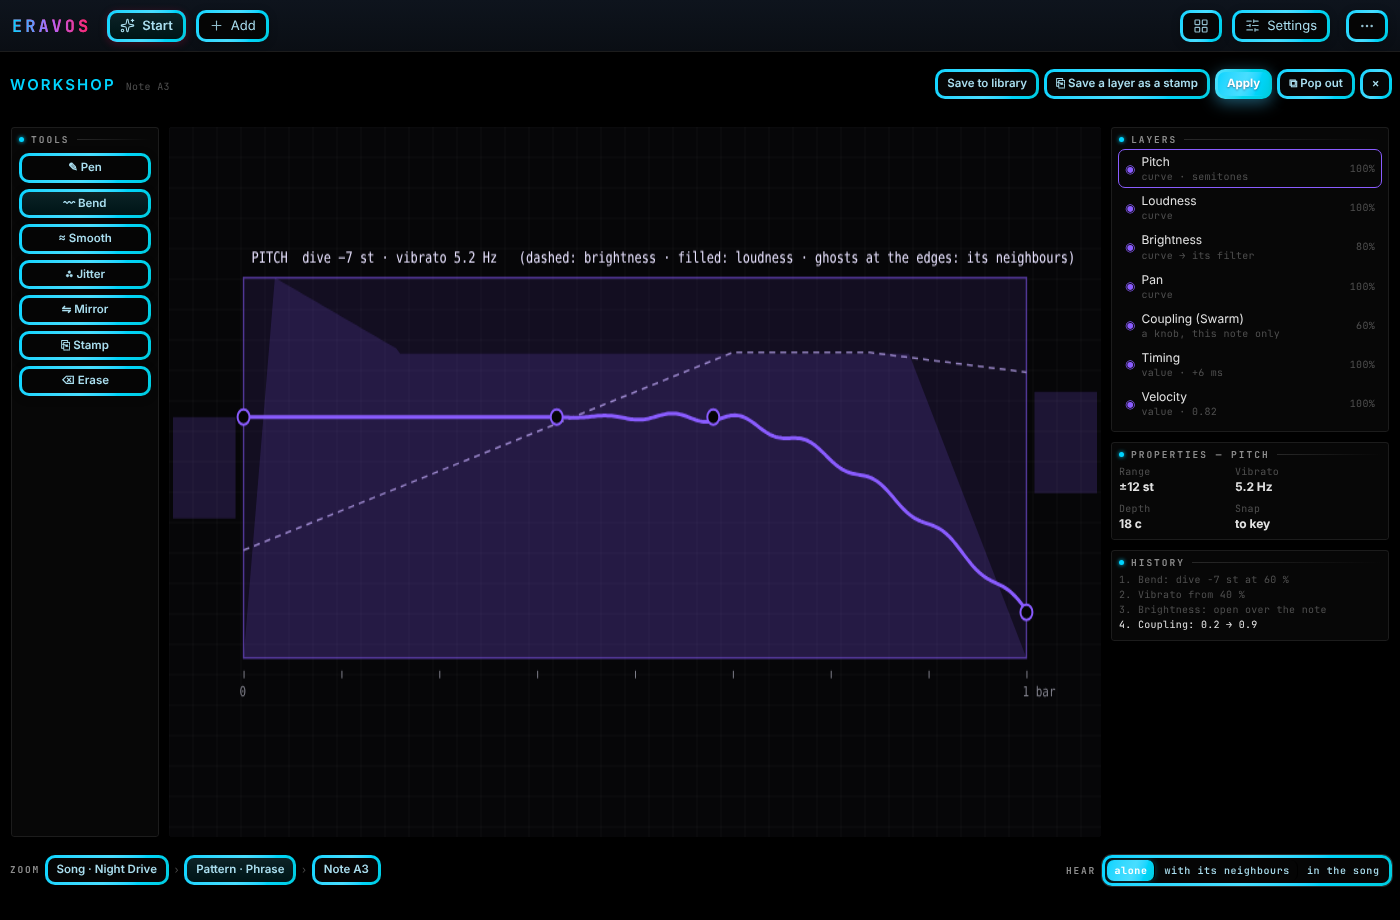
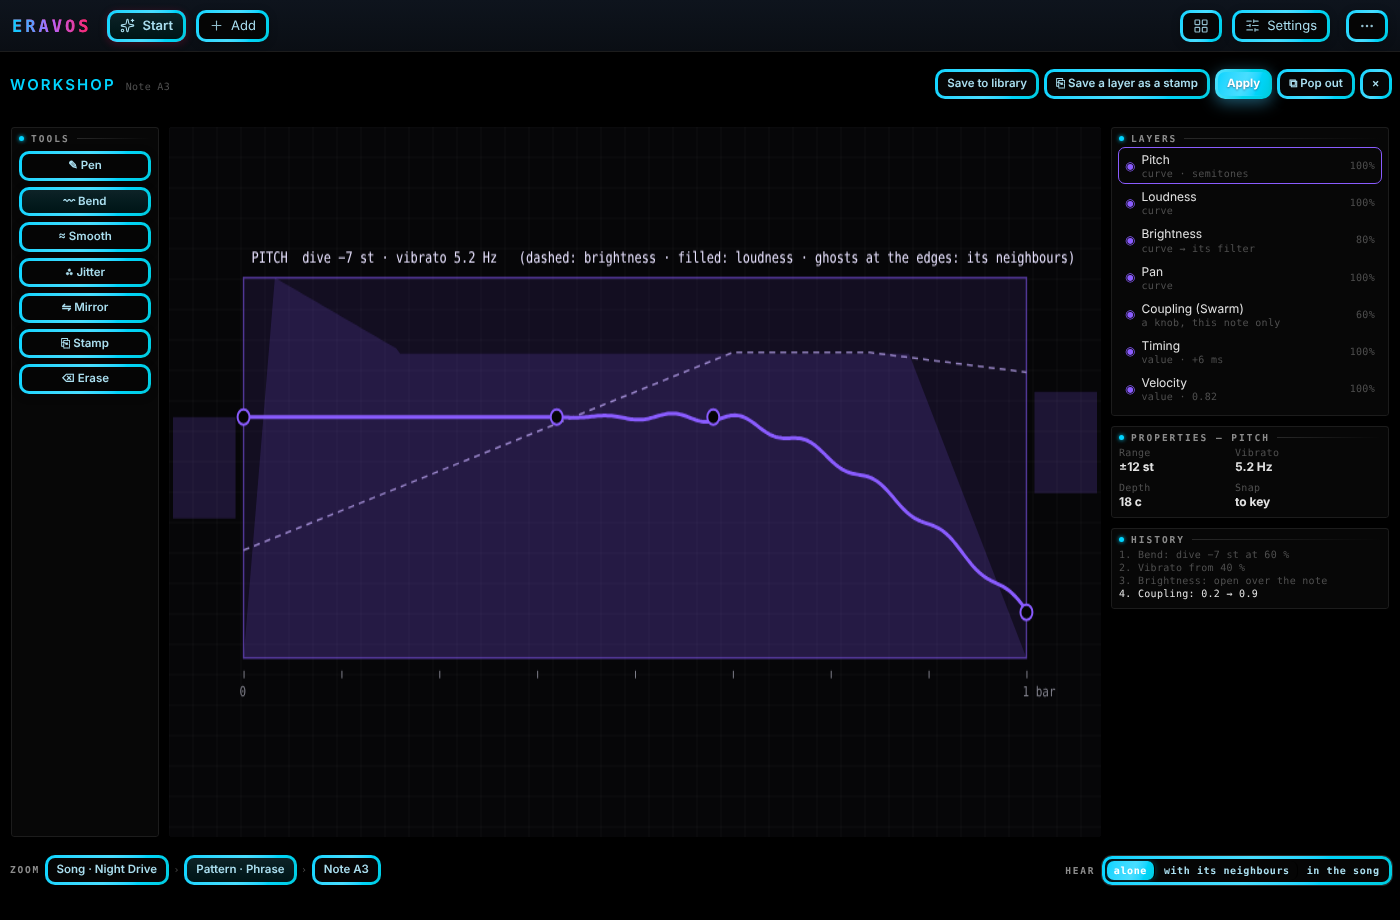
Workshop: the pattern kind preview (structure → shape → what emerges); spec addendum
Claude-Session: https://claude.ai/code/session_01CVLqKkJj5zvE99MkrEYFxM

diff --git a/docs/previews/workshop.preview.js b/docs/previews/workshop.preview.js
@@ -30,6 +30,47 @@
         g.fillStyle = '#e8e2ff'; g.font = '12px ui-monospace, monospace'; g.fillText('PITCH  dive −7 st · vibrato 5.2 Hz   (dashed: brightness · filled: loudness · ghosts at the edges: its neighbours)', x0 + 8, mid - 162);
       },
     },
+    // 2026-11-07 his words: "agnostic. the structure defines the shape which defines the emergent properties of the conditions." — a
+    // PATTERN: its structure layers (scale, chords, grid, range, density, contour) are the shape; the notes are what the conditions produce.
+    // The shaded cells are every note the shape admits (the possibility space); the bright ones emerged (seed 41); the ringed one is yours.
+    pattern: {
+      title: 'Pattern · Bassline (4 bars)', where: ['Song · Night Drive', 'Pattern · Bassline', 'Note'], accent: '#00d4ff', selected: 'Density',
+      tools: ['✎ Pen', '⇕ Range', '⋮ Grid', '◢ Density', '〰 Contour', '⚄ Seed', '🔒 Lock', '⌫ Erase'], tool: 3,
+      groups: [['STRUCTURE — THE SHAPE', [['Scale', 'constraint · A minor', 100], ['Chords', 'constraint · i–VI–III–VII', 100], ['Grid', 'constraint · 16ths · 5 of 8', 100], ['Range', 'constraint · A1 – A3', 100], ['Density', 'curve · over the 4 bars', 100], ['Contour', 'curve · up, then home', 70]]],
+        ['WHAT EMERGES', [['Notes', 'events · what the conditions produce', 100], ['Yours (locked)', 'events · kept when the shape changes', 100], ['Variation', 'value · seed 41', 100]]]],
+      props: [['Start', '30 %'], ['End', '90 %'], ['Shape', 'rise'], ['Over', '4 bars'], ['Live', 'while it plays'], ['Plays into', 'any wired tool']],
+      history: ['Scale: A minor', 'Chords: i–VI–III–VII', 'Range: A1 – A3', 'Lock: A2 on bar 1', 'Density: rise 30 → 90 %'],
+      preview: ['alone', 'with its tools', 'in the song'],
+      draw(g, W, H, acc) {
+        const L = 34, R = 34, T = 64, B = 96, x0 = L, x1 = W - R, y0 = T, y1 = H - B, steps = 64, lo = 33, hi = 57, rows = hi - lo + 1;
+        const cw = (x1 - x0) / steps, rh = (y1 - y0) / rows, X = (s) => x0 + s * cw, Y = (n) => y1 - (n - lo + 1) * rh;
+        const minor = [0, 2, 3, 5, 7, 8, 10], inKey = (n) => minor.includes(((n - 57) % 12 + 12) % 12);
+        const chords = [[57, 60, 64], [53, 57, 60], [48, 52, 55], [55, 59, 62]], tone = (n, bar) => chords[bar].some(c => (((n - c) % 12) + 12) % 12 === 0);
+        const eu = [1, 0, 1, 1, 0, 1, 1, 0], onGrid = (s) => eu[s % 8] === 1, dens = (s) => 0.3 + 0.6 * (s / steps), cont = (s) => 40 + 9 * Math.sin(Math.PI * s / steps);
+        let seed = 41; const rnd = () => { seed = (seed * 1103515245 + 12345) & 0x7fffffff; return seed / 0x7fffffff; };
+        // the shape: rows outside the key are closed; the chord's tones in each bar are where the line can land
+        for (let n = lo; n <= hi; n++) { const y = Y(n); if (!inKey(n)) { g.fillStyle = '#040406'; g.fillRect(x0, y, x1 - x0, rh); continue; }
+          for (let bar = 0; bar < 4; bar++) { g.fillStyle = tone(n, bar) ? 'rgba(0,212,255,0.07)' : 'rgba(255,255,255,0.025)'; g.fillRect(X(bar * 16), y, 16 * cw, rh - 1); } }
+        // the grid: steps the rhythm admits are lit columns
+        for (let s = 0; s < steps; s++) { if (onGrid(s)) { g.fillStyle = 'rgba(0,212,255,0.045)'; g.fillRect(X(s), y0, cw - 1, y1 - y0); } }
+        for (let bar = 0; bar <= 4; bar++) { g.fillStyle = 'rgba(255,255,255,0.14)'; g.fillRect(X(bar * 16), y0, 1, y1 - y0); }
+        // the possibility space: every note the shape admits (in key, a chord tone, on the grid)
+        for (let s = 0; s < steps; s++) { if (!onGrid(s)) continue; const bar = s >> 4; for (let n = lo; n <= hi; n++) if (inKey(n) && tone(n, bar)) { g.fillStyle = 'rgba(0,212,255,0.16)'; g.beginPath(); g.arc(X(s) + cw / 2, Y(n) + rh / 2, 1.6, 0, 7); g.fill(); } }
+        // range: the band the line may move in
+        g.strokeStyle = 'rgba(0,212,255,0.35)'; g.setLineDash([4, 4]); g.strokeRect(x0, Y(hi), x1 - x0, Y(lo) - Y(hi) + rh); g.setLineDash([]);
+        // contour: where the line leans (a soft guide)
+        g.strokeStyle = 'rgba(199,176,255,0.55)'; g.lineWidth = 1.5; g.beginPath(); for (let s = 0; s <= steps; s++) { const y = Y(cont(s)) + rh / 2; s ? g.lineTo(X(s), y) : g.moveTo(X(s), y); } g.stroke();
+        // what emerges: on each admitted step, by the density there, the chord tone nearest the contour (seed 41)
+        const notes = []; for (let s = 0; s < steps; s++) { if (!onGrid(s) || rnd() > dens(s)) continue; const bar = s >> 4, c = cont(s); let best = null, bd = 1e9;
+          for (let n = lo; n <= hi; n++) if (inKey(n) && tone(n, bar)) { const d = Math.abs(n - c) + rnd() * 3; if (d < bd) { bd = d; best = n; } } notes.push([s, best]); }
+        notes.forEach(([s, n], i) => { const lock = s === 0; g.fillStyle = acc; g.shadowColor = acc; g.shadowBlur = 10; g.fillRect(X(s) + 1, Y(n) + 1, cw * 1.6, rh - 2); g.shadowBlur = 0;
+          if (lock) { g.strokeStyle = '#ffffff'; g.lineWidth = 2; g.strokeRect(X(s) - 2, Y(n) - 2, cw * 1.6 + 6, rh + 4); } void i; });
+        // density: the selected layer, drawn under the roll with its two handles
+        const dy0 = y1 + 22, dh = 46; g.fillStyle = 'rgba(0,212,255,0.10)'; g.beginPath(); g.moveTo(x0, dy0 + dh); for (let s = 0; s <= steps; s++) g.lineTo(X(s), dy0 + dh - dens(s) * dh); g.lineTo(x1, dy0 + dh); g.closePath(); g.fill();
+        g.strokeStyle = acc; g.lineWidth = 2.5; g.beginPath(); for (let s = 0; s <= steps; s++) { const y = dy0 + dh - dens(s) * dh; s ? g.lineTo(X(s), y) : g.moveTo(X(s), y); } g.stroke();
+        [[0, dens(0)], [steps, dens(steps)]].forEach(([s, v]) => { g.fillStyle = '#050507'; g.beginPath(); g.arc(X(s), dy0 + dh - v * dh, 6, 0, 7); g.fill(); g.strokeStyle = acc; g.lineWidth = 2; g.stroke(); });
+      },
+    },
     photo: {
       title: 'Photo (your picture)', where: ['Board · Moodboard', 'Photo', 'Region'], accent: '#ffb347',
       tools: ['🖌 Brush', '⌫ Eraser', '☁ Smudge', '⎘ Clone', '⬚ Select', '⤡ Transform', '▣ Fill'],
@@ -56,20 +97,23 @@
     const head = h('div', { class: 'org-row', style: { gridColumn: '1 / 4', justifyContent: 'space-between', alignItems: 'center' } }, [
       h('div', { class: 'org-row', style: { gap: '10px', alignItems: 'baseline' } }, [h('b', { style: { font: '600 15px var(--font, sans-serif)', letterSpacing: '0.14em', color: 'var(--acc, #00d4ff)' }, text: 'WORKSHOP' }), h('span', { class: 'uk-hint', style: { margin: 0 }, text: K.title })]),
       h('div', { class: 'org-row', style: { gap: '8px' } }, [UI.Button({ label: 'Save to library' }).el, UI.Button({ label: '⎘ Save a layer as a stamp' }).el, UI.Button({ label: 'Apply', kind: 'primary' }).el, UI.Button({ label: '⧉ Pop out' }).el, UI.Button({ label: '×' }).el])]);
-    const tools = card('TOOLS', K.tools.map((t, i) => { const b = UI.Button({ label: t }).el; b.style.width = '100%'; b.style.margin = '3px 0'; if (i === (kindId === 'note' ? 1 : 0)) b.classList.add('on'); return b; }));
+    const tools = card('TOOLS', K.tools.map((t, i) => { const b = UI.Button({ label: t }).el; b.style.width = '100%'; b.style.margin = '3px 0'; if (i === (K.tool !== undefined ? K.tool : kindId === 'note' ? 1 : 0)) b.classList.add('on'); return b; }));
     const surf = UI.Canvas(900, 560); surf.style.width = '100%'; surf.style.height = '100%';
     UI.loop(surf, () => { const g = surf.g; surf.fit(); const W = surf.W, H = surf.H || 560; g.fillStyle = '#060608'; g.fillRect(0, 0, W, H);
       g.strokeStyle = 'rgba(255,255,255,0.04)'; g.lineWidth = 1; for (let x = 0; x < W; x += 24) { g.beginPath(); g.moveTo(x, 0); g.lineTo(x, H); g.stroke(); } for (let y = 0; y < H; y += 24) { g.beginPath(); g.moveTo(0, y); g.lineTo(W, y); g.stroke(); }
       K.draw(g, W, H, K.accent); }, 6);
     const centre = h('div', { class: 'uk-group', style: { margin: 0, padding: '0', overflow: 'hidden', position: 'relative' } }, [surf]);
-    const layers = card('LAYERS', K.layers.map(([n, t, a, sel]) => h('div', { class: 'org-row', style: { gap: '6px', alignItems: 'center', padding: '4px 6px', margin: '2px 0', borderRadius: '6px', outline: sel ? '1px solid ' + K.accent : 'none' } }, [
-      h('span', { text: '◉', style: { color: K.accent, fontSize: '12px' } }), h('div', { style: { flex: '1' } }, [h('div', { text: n, style: { fontSize: '12px' } }), h('div', { class: 'uk-hint', style: { margin: 0, fontSize: '10px' }, text: t })]), h('span', { class: 'uk-hint', style: { margin: 0 }, text: a + '%' })])));
-    const props = card('PROPERTIES — ' + K.layers.find(l => l[3])[0].toUpperCase(), [h('div', { class: 'uk-row', style: { flexWrap: 'wrap', gap: '6px' } }, K.props.map(([k, v]) => h('div', { style: { minWidth: '110px' } }, [h('div', { class: 'uk-hint', style: { margin: 0, fontSize: '10px' }, text: k }), h('b', { text: v, style: { fontSize: '12px' } })])))]);
+    // a kind may group its layers (the pattern: STRUCTURE — the shape · WHAT EMERGES); the surface draws the groups, it knows no meaning
+    const groups = K.groups || [[null, K.layers]], selName = K.selected || (K.layers.find(l => l[3]) || [])[0];
+    const row = ([n, t, a]) => h('div', { class: 'org-row', style: { gap: '6px', alignItems: 'center', padding: '4px 6px', margin: '2px 0', borderRadius: '6px', outline: n === selName ? '1px solid ' + K.accent : 'none' } }, [
+      h('span', { text: '◉', style: { color: K.accent, fontSize: '12px' } }), h('div', { style: { flex: '1' } }, [h('div', { text: n, style: { fontSize: '12px' } }), h('div', { class: 'uk-hint', style: { margin: 0, fontSize: '10px' }, text: t })]), h('span', { class: 'uk-hint', style: { margin: 0 }, text: a + '%' })]);
+    const layers = card('LAYERS', [].concat(...groups.map(([gt, ls]) => (gt ? [h('div', { class: 'org-label', style: { margin: '8px 6px 2px', fontSize: '10px' }, text: gt })] : []).concat(ls.map(row)))));
+    const props = card('PROPERTIES — ' + String(selName).toUpperCase(), [h('div', { class: 'uk-row', style: { flexWrap: 'wrap', gap: '6px' } }, K.props.map(([k, v]) => h('div', { style: { minWidth: '110px' } }, [h('div', { class: 'uk-hint', style: { margin: 0, fontSize: '10px' }, text: k }), h('b', { text: v, style: { fontSize: '12px' } })])))]);
     const hist = card('HISTORY', K.history.map((x, i) => h('div', { class: 'uk-hint', style: { margin: '2px 0', color: i === K.history.length - 1 ? 'var(--text, #ddd)' : '' }, text: (i + 1) + '. ' + x })));
     const right = h('div', { style: { display: 'flex', flexDirection: 'column', gap: '8px', overflow: 'hidden' } }, [layers, props, hist]);
-    const crumbs = h('div', { class: 'org-row', style: { gap: '6px', alignItems: 'center' } }, [h('span', { class: 'org-label', text: 'ZOOM' })].concat(...K.where.map((w, i) => [i ? h('span', { class: 'uk-hint', style: { margin: 0 }, text: '›' }) : null, (() => { const b = UI.Button({ label: w }).el; if (i === K.where.length - 2 && kindId === 'note' || i === 1 && kindId === 'photo') b.classList.add('on'); return b; })()].filter(Boolean))));
+    const crumbs = h('div', { class: 'org-row', style: { gap: '6px', alignItems: 'center' } }, [h('span', { class: 'org-label', text: 'ZOOM' })].concat(...K.where.map((w, i) => [i ? h('span', { class: 'uk-hint', style: { margin: 0 }, text: '›' }) : null, (() => { const b = UI.Button({ label: w }).el; if (i === K.where.length - 2 && kindId === 'note' || i === 1 && kindId !== 'note') b.classList.add('on'); return b; })()].filter(Boolean))));
     const prev = UI.Segmented({ options: K.preview, value: K.preview[0] });
-    const foot = h('div', { class: 'org-row', style: { gridColumn: '1 / 4', justifyContent: 'space-between', alignItems: 'center' } }, [crumbs, h('div', { class: 'org-row', style: { gap: '8px', alignItems: 'center' } }, [h('span', { class: 'org-label', text: kindId === 'note' ? 'HEAR' : 'SEE' }), prev.el])]);
+    const foot = h('div', { class: 'org-row', style: { gridColumn: '1 / 4', justifyContent: 'space-between', alignItems: 'center' } }, [crumbs, h('div', { class: 'org-row', style: { gap: '8px', alignItems: 'center' } }, [h('span', { class: 'org-label', text: kindId === 'photo' ? 'SEE' : 'HEAR' }), prev.el])]);
     ov.append(head, tools, centre, right, foot); document.body.appendChild(ov);
   };
 })();

diff --git a/docs/HIS-WORDS-MAP.md b/docs/HIS-WORDS-MAP.md
@@ -88,3 +88,4 @@ kept), or **open** (not done yet, and what is missing). Newest at the bottom. Ad
 | 79 | "workshop next? is that the highest leverage?" | answered | not first: a shared pattern engine (Bassline, Arp, Groove on one part), then the Workshop at pattern scale (W2), then note scale (W1) — previews first |
 | 80 | "im struggling with patterns. like the complexity of them. also nexus im working on field, that im trying to make agnostic. i feel it would fit well for nexus and emerge. im debating integrating my projects into cos as a entire ecosystem" | **open** — talking it through; asked what COS and Field are | — |
 | 81 | "agnostic. the structure defines the shape which defines the emergent properties of the conditions. no look at the spec workshop in idearium. look at the eravos phases" | read (Nexus, read only) | Nexus `docs/2026-11-07-eravos-as-a-system-phasemap.spec` ERV0–ERV5 (COS the hub; ERAVOS registered, not copied; the Workshop kind contract; the visual coding and debug environment after Emerge, WARP 2, RF1) · Idearium spec workshop WK1–WK6 + templates `eravos-tool.spec`, `eravos-canvas.spec` · the field: `emerge/emerge/spec/field.spec`. Open, his: ERV_D1, ERV_D2, ERV_D4 |
+| 82 | "do it." | **doing** — the preview first | the pattern kind on the Workshop (`docs/previews/workshop-pattern.png`); spec ADDENDUM 2026-11-07 (constraint + emergent layer types; PATTERN first; order W1/W2; ERV_D1/D2/D4 read as yes, to confirm) |
